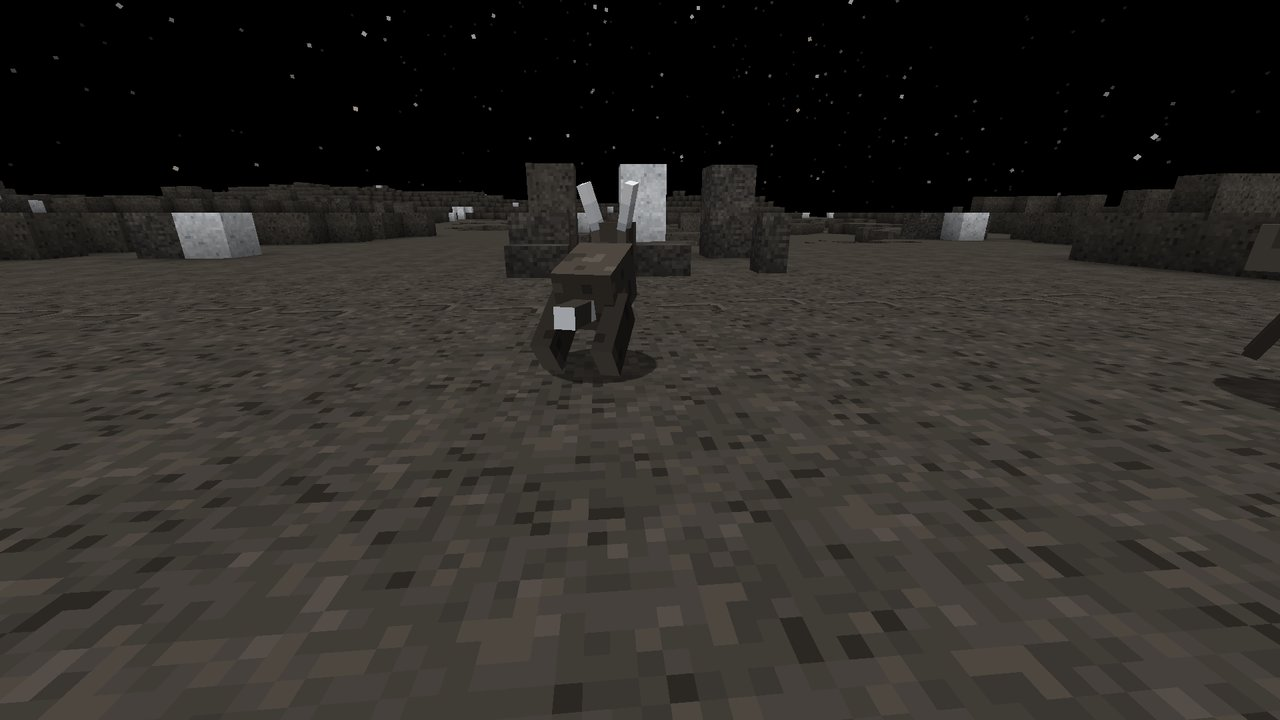
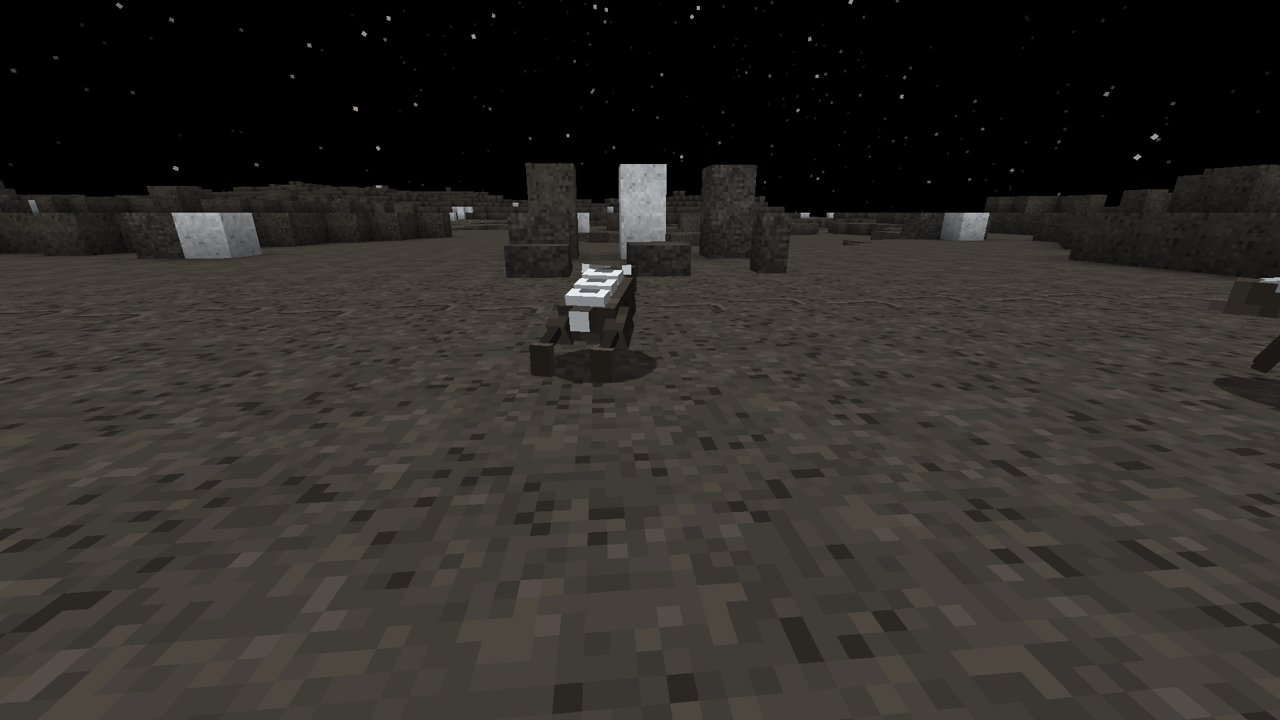
Rework the crater hopper so it no longer reads as a rabbit
Low long-backed body with three white ring plates like crater rims, a
blunt head with two bony horn plates swept back over the neck instead
of tall ear plates, spring-jointed hind legs (thigh forward, shin back,
flat foot) that straighten out behind in a leap, and a short stubby
tail; dark brown-grey to match Callisto. Before/after and Callisto
frames.

diff --git a/src/main/java/com/pizzaparker07/spacebreaker/client/jupiter/CraterHopperModel.java b/src/main/java/com/pizzaparker07/spacebreaker/client/jupiter/CraterHopperModel.java
@@ -13,46 +13,74 @@ import net.minecraft.client.model.geom.builders.PartDefinition;
 import net.minecraft.util.Mth;
 
 /**
- * Crater Hopper: a compact body tilted up at the front, a small head with two tall sensory plates, big folded hind
- * legs, tiny forelegs and a stiff balancing tail. In a leap the hind legs kick straight back. UVs:
- * tools/textures/modules/jupiter.py.
+ * Crater Hopper: a low, long-backed hopper of Callisto's cratered plains. Three white ring plates like crater rims run
+ * down its dark brown-grey back; a blunt head carries two bony horn plates swept back over the neck; spring-jointed hind
+ * legs (thigh forward, shin back, long flat foot), tiny forelegs and a short stubby tail. In a leap the hind legs kick
+ * straight out behind. UVs: tools/textures/modules/jupiter.py.
  */
 public class CraterHopperModel extends HierarchicalModel<CraterHopper> {
     public static final ModelLayerLocation LAYER = new ModelLayerLocation(Spacebreaker.id("crater_hopper"), "main");
+    private static final float THIGH = -0.5F;
+    private static final float SHIN = 1.0F;
+    private static final float FOOT = -0.5F;
     private final ModelPart root;
+    private final ModelPart body;
     private final ModelPart head;
-    private final ModelPart legLeft;
-    private final ModelPart legRight;
+    private final ModelPart[] thighs = new ModelPart[2];
+    private final ModelPart[] shins = new ModelPart[2];
+    private final ModelPart[] feet = new ModelPart[2];
     private final ModelPart tail;
 
     public CraterHopperModel(ModelPart root) {
         this.root = root;
+        this.body = root.getChild("body");
         this.head = root.getChild("head");
-        this.legLeft = root.getChild("leg_left");
-        this.legRight = root.getChild("leg_right");
         this.tail = root.getChild("tail");
+        for (int i = 0; i < 2; i++) {
+            thighs[i] = root.getChild(i == 0 ? "leg_left" : "leg_right");
+            shins[i] = thighs[i].getChild("shin");
+            feet[i] = shins[i].getChild("foot");
+        }
     }
 
     public static LayerDefinition createLayer() {
         MeshDefinition mesh = new MeshDefinition();
         PartDefinition root = mesh.getRoot();
-        root.addOrReplaceChild("body", CubeListBuilder.create().texOffs(0, 0).addBox(-3F, -6F, -4F, 6F, 6F, 8F),
-                PartPose.offsetAndRotation(0F, 18F, 0F, -0.3F, 0F, 0F));
-        PartDefinition head = root.addOrReplaceChild("head", CubeListBuilder.create().texOffs(28, 0).addBox(-2F, -4F, -3F, 4F, 4F, 4F),
-                PartPose.offset(0F, 13F, -4F));
-        head.addOrReplaceChild("plate_left", CubeListBuilder.create().texOffs(44, 0).addBox(0F, -5F, 0F, 1F, 5F, 2F),
-                PartPose.offsetAndRotation(1F, -3.5F, -1F, -0.2F, 0F, 0.25F));
-        head.addOrReplaceChild("plate_right", CubeListBuilder.create().texOffs(44, 0).mirror().addBox(-1F, -5F, 0F, 1F, 5F, 2F),
-                PartPose.offsetAndRotation(-1F, -3.5F, -1F, -0.2F, 0F, -0.25F));
-        root.addOrReplaceChild("leg_left", CubeListBuilder.create().texOffs(0, 14).addBox(-1F, 0F, -2F, 2F, 7F, 4F), PartPose.offset(3F, 17F, 2F));
-        root.addOrReplaceChild("leg_right", CubeListBuilder.create().texOffs(0, 14).mirror().addBox(-1F, 0F, -2F, 2F, 7F, 4F),
-                PartPose.offset(-3F, 17F, 2F));
-        root.addOrReplaceChild("arm_left", CubeListBuilder.create().texOffs(12, 14).addBox(-0.5F, 0F, -0.5F, 1F, 4F, 1F),
-                PartPose.offsetAndRotation(1.5F, 17F, -3.5F, -0.3F, 0F, 0F));
-        root.addOrReplaceChild("arm_right", CubeListBuilder.create().texOffs(12, 14).mirror().addBox(-0.5F, 0F, -0.5F, 1F, 4F, 1F),
-                PartPose.offsetAndRotation(-1.5F, 17F, -3.5F, -0.3F, 0F, 0F));
-        root.addOrReplaceChild("tail", CubeListBuilder.create().texOffs(16, 14).addBox(-1F, -1F, 0F, 2F, 2F, 6F),
-                PartPose.offsetAndRotation(0F, 17F, 3.5F, 0.35F, 0F, 0F));
+        PartDefinition body = root.addOrReplaceChild("body", CubeListBuilder.create().texOffs(0, 0).addBox(-3F, -4F, -3.5F, 6F, 4F, 7F),
+                PartPose.offsetAndRotation(0F, 19.5F, 0F, -0.12F, 0F, 0F));
+        // three ring plates down the back, like the rims of craters
+        for (int i = 0; i < 3; i++) {
+            body.addOrReplaceChild("plate" + i, CubeListBuilder.create().texOffs(26, 0).addBox(-2F, -1F, -1F, 4F, 1F, 2F),
+                    PartPose.offsetAndRotation(0F, -4F, -2.3F + i * 2.4F, 0.1F, 0F, 0F));
+        }
+        PartDefinition head = root.addOrReplaceChild("head", CubeListBuilder.create().texOffs(38, 0).addBox(-2F, -3F, -4F, 4F, 3F, 4F)
+                .texOffs(54, 0).addBox(-1F, -1F, -5F, 2F, 1F, 1F), PartPose.offset(0F, 17F, -3.2F));
+        // bony horn plates swept back over the neck
+        head.addOrReplaceChild("plate_left", CubeListBuilder.create().texOffs(26, 4).addBox(-0.5F, -0.5F, 0F, 1F, 1F, 4F),
+                PartPose.offsetAndRotation(1.2F, -2.6F, -2.5F, 0.15F, 0.3F, 0F));
+        head.addOrReplaceChild("plate_right", CubeListBuilder.create().texOffs(26, 4).mirror().addBox(-0.5F, -0.5F, 0F, 1F, 1F, 4F),
+                PartPose.offsetAndRotation(-1.2F, -2.6F, -2.5F, 0.15F, -0.3F, 0F));
+        for (int side = -1; side <= 1; side += 2) {
+            String name = side > 0 ? "leg_left" : "leg_right";
+            CubeListBuilder thigh = CubeListBuilder.create().texOffs(0, 12);
+            CubeListBuilder shin = CubeListBuilder.create().texOffs(10, 12);
+            CubeListBuilder foot = CubeListBuilder.create().texOffs(14, 12);
+            CubeListBuilder arm = CubeListBuilder.create().texOffs(24, 12);
+            if (side < 0) {
+                thigh.mirror();
+                shin.mirror();
+                foot.mirror();
+                arm.mirror();
+            }
+            PartDefinition t = root.addOrReplaceChild(name, thigh.addBox(-1F, 0F, -1.5F, 2F, 3F, 3F),
+                    PartPose.offsetAndRotation(side * 3F, 18F, 2F, THIGH, 0F, 0F));
+            PartDefinition sh = t.addOrReplaceChild("shin", shin.addBox(-0.5F, 0F, -0.5F, 1F, 3F, 1F), PartPose.offsetAndRotation(0F, 3F, 1F, SHIN, 0F, 0F));
+            sh.addOrReplaceChild("foot", foot.addBox(-1F, 0F, -2.5F, 2F, 1F, 3F), PartPose.offsetAndRotation(0F, 3F, 0F, FOOT, 0F, 0F));
+            root.addOrReplaceChild(side > 0 ? "arm_left" : "arm_right", arm.addBox(-0.5F, 0F, -0.5F, 1F, 3F, 1F),
+                    PartPose.offsetAndRotation(side * 1.5F, 19F, -3F, -0.3F, 0F, 0F));
+        }
+        root.addOrReplaceChild("tail", CubeListBuilder.create().texOffs(28, 12).addBox(-1F, -1F, 0F, 2F, 2F, 3F),
+                PartPose.offsetAndRotation(0F, 17.5F, 3.2F, -0.5F, 0F, 0F));
         return LayerDefinition.create(mesh, 64, 32);
     }
 
@@ -65,9 +93,14 @@ public class CraterHopperModel extends HierarchicalModel<CraterHopper> {
     public void setupAnim(CraterHopper h, float limbSwing, float limbSwingAmount, float ageInTicks, float netHeadYaw, float headPitch) {
         head.yRot = netHeadYaw * Mth.DEG_TO_RAD * 0.5F;
         head.xRot = headPitch * Mth.DEG_TO_RAD * 0.5F;
-        float kick = h.leaping() ? 0.9F : 0F;
-        legLeft.xRot = kick;
-        legRight.xRot = kick;
-        tail.xRot = 0.35F - (h.leaping() ? 0.3F : 0F) + Mth.sin(ageInTicks * 0.1F) * 0.05F;
+        boolean leap = h.leaping();
+        // crouched on the ground the leg is folded (thigh forward, shin back, foot flat); in a leap it straightens out behind
+        for (int i = 0; i < 2; i++) {
+            thighs[i].xRot = leap ? 0.9F : THIGH + Mth.sin(ageInTicks * 0.08F) * 0.03F;
+            shins[i].xRot = leap ? 0.3F : SHIN;
+            feet[i].xRot = leap ? 0.4F : FOOT;
+        }
+        body.xRot = leap ? -0.3F : -0.12F;
+        tail.xRot = leap ? -0.1F : -0.5F + Mth.sin(ageInTicks * 0.1F) * 0.05F;
     }
 }

diff --git a/tools/textures/modules/jupiter.py b/tools/textures/modules/jupiter.py
@@ -374,11 +374,17 @@ def groove_grazer():
     return cv
 
 
+# Crater hopper (Callisto): dark brown-grey hide like the moon's old dark surface, white ring plates like its bright
+# crater rims, pale icy eyes.
+CRATER_HIDE = [hexc(h) for h in ('#1c1a17', '#28241f', '#35302a', '#433c35', '#524a42', '#635a51', '#786e63')]
+CRATER_PLATE = [hexc(h) for h in ('#5d6166', '#a9b0b6', '#ccd2d6', '#e8ecee')]
+
+
 def crater_hopper():
-    """64x32 sheet for CraterHopperModel: dark brown-grey hide, frost-white sensory plates and tail tip, pale belly."""
+    """64x32 sheet for CraterHopperModel (box layout in moon_creatures.faces)."""
     cv = Canvas(64, 32)
-    r = P.HOPPER
-    w = P.HOPPER_PLATE
+    r = CRATER_HIDE
+    w = CRATER_PLATE
     n = clustered(64, 64, 11021, passes=1)
 
     def hide(base):
@@ -388,22 +394,29 @@ def crater_hopper():
             return noise_pick(r, base + (1 if face == 'top' else 0), n, x + base * 7, y)
         return fn
 
-    paint(cv, 0, 0, 6, 6, 8, hide(2))
+    def plate(face, x, y, fw, fh):
+        # a ring: white rim round a darker middle on the top face
+        if face == 'top':
+            return w[0] if (0 < x < fw - 1 and 0 < y < fh - 1) or (fh <= 2 and 0 < x < fw - 1 and y == 1) else w[3]
+        return w[2] if face != 'bottom' else w[1]
 
     def head(face, x, y, fw, fh):
         if face == 'front':
-            if y == 1 and x in (0, fw - 1):
-                return hexc('#d9e6ee')
-            if y == 3 and 1 <= x <= 2:
-                return r[0]
+            if y == 0 and x in (0, fw - 1):
+                return hexc('#d9e6ee')  # pale icy eyes at the corners
             return r[3]
         return noise_pick(r, 3, n, x + 30, y)
 
-    paint(cv, 28, 0, 4, 4, 4, head)
-    paint(cv, 44, 0, 1, 5, 2, lambda f, x, y, fw, fh: w[2] if y < 2 else w[1] if y < 4 else w[0])
-    paint(cv, 0, 14, 2, 7, 4, hide(1))
-    paint(cv, 12, 14, 1, 4, 1, hide(1))
-    paint(cv, 16, 14, 2, 2, 6, lambda f, x, y, fw, fh: w[1] if (f == 'back' or (f in ('top', 'left', 'right') and x >= 4)) else r[2])
+    paint(cv, 0, 0, 6, 4, 7, hide(2))
+    paint(cv, 26, 0, 4, 1, 2, plate)
+    paint(cv, 38, 0, 4, 3, 4, head)
+    paint(cv, 54, 0, 2, 1, 1, lambda f, x, y, fw, fh: r[1] if f == 'front' else r[4])
+    paint(cv, 26, 4, 1, 1, 4, lambda f, x, y, fw, fh: w[3] if (f in ('back',) or (f != 'front' and x >= 3)) else w[1])
+    paint(cv, 0, 12, 2, 3, 3, hide(2))
+    paint(cv, 10, 12, 1, 3, 1, hide(1))
+    paint(cv, 14, 12, 2, 1, 3, lambda f, x, y, fw, fh: r[1] if f == 'bottom' else r[4])
+    paint(cv, 24, 12, 1, 3, 1, hide(1))
+    paint(cv, 28, 12, 2, 2, 3, lambda f, x, y, fw, fh: w[2] if f == 'back' else r[3])
     return cv
 
 

diff --git a/src/main/java/com/pizzaparker07/spacebreaker/content/jupiter/entity/JupiterEntities.java b/src/main/java/com/pizzaparker07/spacebreaker/content/jupiter/entity/JupiterEntities.java
@@ -49,7 +49,7 @@ public final class JupiterEntities {
         serpentEgg = items.register("glow_serpent_spawn_egg", () -> new DeferredSpawnEggItem(GLOW_SERPENT, 0x1B2C3A, 0x5EF0E0, new Item.Properties()));
         crabEgg = items.register("sulfur_crab_spawn_egg", () -> new DeferredSpawnEggItem(SULFUR_CRAB, 0xC9A23A, 0x7A2E14, new Item.Properties()));
         grazerEgg = items.register("groove_grazer_spawn_egg", () -> new DeferredSpawnEggItem(GROOVE_GRAZER, 0x8A847C, 0xD1D3D6, new Item.Properties()));
-        hopperEgg = items.register("crater_hopper_spawn_egg", () -> new DeferredSpawnEggItem(CRATER_HOPPER, 0x45403A, 0xE4E7EA, new Item.Properties()));
+        hopperEgg = items.register("crater_hopper_spawn_egg", () -> new DeferredSpawnEggItem(CRATER_HOPPER, 0x35302A, 0xE8ECEE, new Item.Properties()));
         EGGS.add(serpentEgg);
         EGGS.add(crabEgg);
         EGGS.add(grazerEgg);

diff --git a/docs/CONTENT.md b/docs/CONTENT.md
@@ -396,7 +396,7 @@ Her içerik paketi gerçek istemcide vitrin dünyasında fotoğraflanır; onayda
 | Io 🎨 | Kükürt Yengeci (ısıya dayanıklı, yakınına gelene saldırır) |
 | Europa 🎨 | Buzaltı Işık Yılanı (biyolüminesan, pasif; tuzlu su havuzlarında ve gömülü okyanusta) |
 | Ganymede 🎨 | Oluk Otlayıcısı (zırhlı, sürü halinde, okyanus tuzuyla çoğalır) |
-| Kallisto 🎨 | Krater Sıçrayıcısı (ürkek, düşük yerçekiminde uzun sıçrayışlarla kaçar) |
+| Kallisto 🎨 | Krater Sıçrayıcısı (alçak, koyu kahve-gri; sırtında krater kenarı gibi üç beyaz halka plaka, ensesine yatık iki kemik boynuz plakası, yaylı eklemli arka bacaklar ve küt kuyruk; ürkek, düşük yerçekiminde uzun sıçrayışlarla kaçar) |
 | Titan 🎨 | Metan Kayıcısı (metan göllerinin üstünde yürür: koyu kahve-zeytin üç parçalı gövde (iri gözlü küçük baş, göğüs, soluk mavi şeritli uzun karın) sıvıya çok yakın durur; kısa kavrayıcı ön bacaklar, dizleri gövdeden yüksekte çok uzun orta ve arka bacaklar, uçlarında yüzeyde halka dalga bırakan parlak pedler; kayarken bacaklar kürek gibi birlikte iter) · Tolin Solucanı (bal rengi, ortası kalın boğumlu gövde, sırtta kılçık sırası, dört dudaklı ağız konisi (içi koyu turuncu) eleyerek açılıp kapanır; kumul denizlerinde ürkek kazıcı: gömülüyken yalnız kılçıkları görünür; yaklaşınca kuma gömülür, sessizlikte çıkar, kumu eleyip ara sıra tolin bırakır; tolin kumuyla çoğalır) |
 | Enceladus 🎨 | Gayzer Süzülücüsü (gayzer bulutlarında süzülen parlak çan) |
 | Titania 🎨 | Moloz Yuvarlakçası (plakalı otlayıcı; vurulunca top olup hızla yuvarlanarak kaçar, top halindeyken hasarın bir kısmını alır; kömürle çoğalır) |
